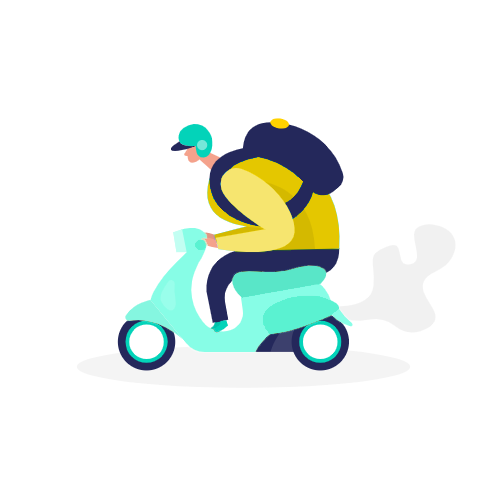
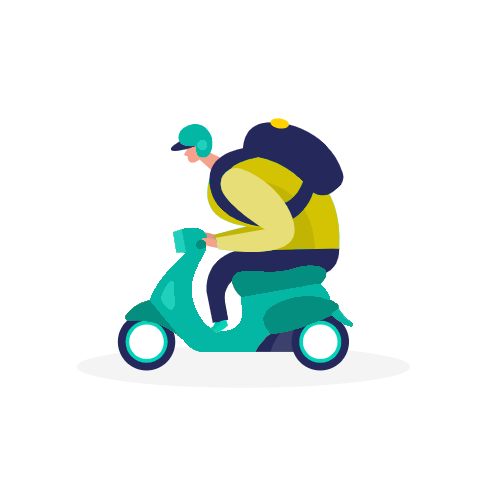
changes

Changed region(s): [[0.24, 0.45, 0.72, 0.72], [0.36, 0.24, 0.45, 0.33]]

diff --git a/components/scooter/scooter.js b/components/scooter/scooter.js
@@ -14,7 +14,7 @@ const Scooter = () => {
     <div className={styles.scooterContainer}>
       <div className={styles.scooter}>
         {isone ? <img src="/1.png" width="700px" height="500px"></img> : null}
-        {istwo ? <img src="/2.png" width="700px" height="500px"></img> : null}
+        {istwo ? <img src="/2.png" className={styles.two}></img> : null}
         {isthree ? <img src="/3.png" width="700px" height="500px"></img> : null}
         {isfour ? <img src="/4.png" width="700px" height="500px"></img> : null}
       </div>

diff --git a/components/scooter/scooter.module.scss b/components/scooter/scooter.module.scss
@@ -8,9 +8,9 @@
 
   .scooter {
     // height: 500px;
-    // width: 700px;
+    width: 700px;
     border-radius: 20px;
-
+    text-align: center;
     @media (max-width: 1000px) {
       text-align: center;
       // width: 400px;
@@ -20,6 +20,15 @@
       @media (max-width: 1000px) {
         width: 450px;
         height: 330px;
+      }
+    }
+
+    .two {
+      width: 500px;
+      height: 500px;
+      @media (max-width: 1000px) {
+        width: 350px;
+        height: 350px;
       }
     }
   }

diff --git a/components/dynamicAbout/dynamic.module.scss b/components/dynamicAbout/dynamic.module.scss
@@ -23,9 +23,12 @@
       }
     }
     .scooterimg {
-      width: 600px;
+      width: 400px;
       @media (min-width: 1300px) {
-        width: 750px;
+        width: 550px;
+      }
+      @media (max-width: 900px) {
+        width: 300px;
       }
     }
   }
